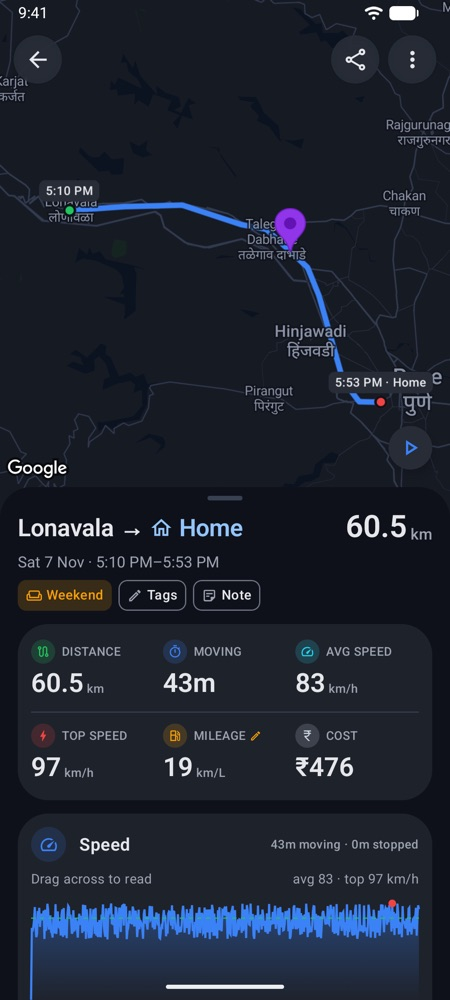
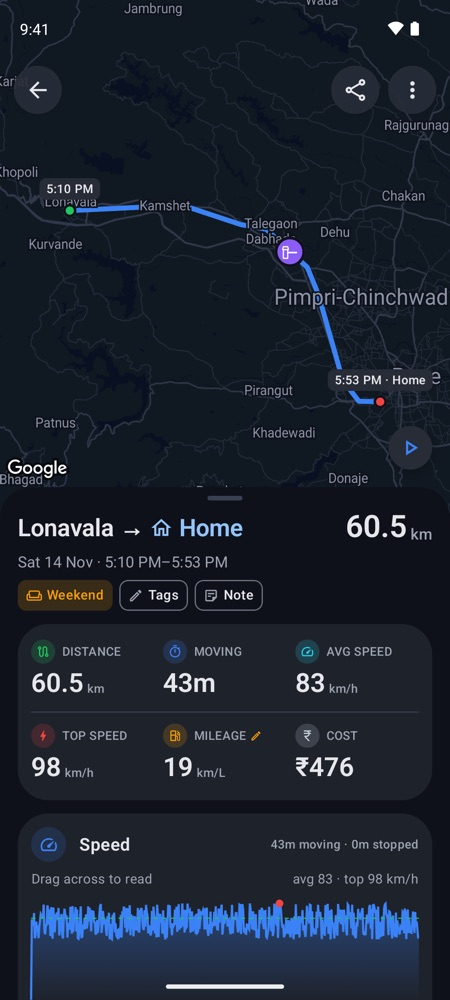
fix(site): fresh Trips, Expenses and trip screenshots; claims match the app
New screens from the demo garage show the current top bars and the trip's toll
pin. The Documents and renewals card becomes Bills and job cards: the app has
no insurance or PUC reminders (llms.txt likewise).

diff --git a/site/index.html b/site/index.html
@@ -23,7 +23,7 @@
 <link rel="icon" href="favicon.svg" type="image/svg+xml">
 <link rel="icon" href="favicon-32.png" sizes="32x32" type="image/png">
 <link rel="apple-touch-icon" href="apple-touch-icon.png">
-<link rel="stylesheet" href="style.css?v=aa1294fc340c">
+<link rel="stylesheet" href="style.css?v=52307f238ef1">
 <link rel="stylesheet" href="trip-story.css?v=a7f72627d9d9">
 <link rel="stylesheet" href="video.css?v=66cc54896eeb">
 <script type="application/ld+json">
@@ -132,7 +132,7 @@
     </ul>
   </div>
   <div class="pair">
-    <figure class="phone"><div class="scr"><picture><source srcset="img/expenses.webp" type="image/webp"><img src="img/expenses.jpg" alt="Expenses tab: ₹2,558 spent in November, 58% less than October, mostly fuel, spend for the last six months, then each payment by day" width="450" height="1000" loading="lazy"></picture></div></figure>
+    <figure class="phone"><div class="scr"><picture><source srcset="img/expenses.webp" type="image/webp"><img src="img/expenses.jpg" alt="Expenses tab: ₹2,750 spent in November, 57% less than October, mostly fuel, spend for the last six months, then each payment by day" width="450" height="1000" loading="lazy"></picture></div></figure>
     <figure class="phone"><div class="scr"><picture><source srcset="img/mileage.webp" type="image/webp"><img src="img/mileage.jpg" alt="Mileage page: 16.5 km/L in November, a line between your city and highway figures, 41% city driving" width="450" height="1000" loading="lazy"></picture></div></figure>
   </div>
 </section>
@@ -149,7 +149,7 @@
     <div class="card wash" style="--tone:var(--blue)"><span class="badge" style="--tone:var(--blue)"><svg class="ico" aria-hidden="true"><use href="#swap-horiz"/></svg></span><h3>Move phones</h3><p>One file, password-protected if you like, carries your vehicles, trips, bills and photos to a new phone.</p></div>
     <div class="card wash" style="--tone:var(--blue)"><span class="badge" style="--tone:var(--blue)"><svg class="ico" aria-hidden="true"><use href="#route"/></svg></span><h3>Saved places</h3><p>Save Home, Work and vehicle stops. Recognise familiar journeys and see visit patterns at your saved spots.</p></div>
     <div class="card wash" style="--tone:var(--green)"><span class="badge" style="--tone:var(--green)"><svg class="ico" aria-hidden="true"><use href="#wallet"/></svg></span><h3>Money received</h3><p>Record trip contributions, repayments and reimbursements. See what you spent and what came back, together.</p></div>
-    <div class="card wash" style="--tone:var(--amber)"><span class="badge" style="--tone:var(--amber)"><svg class="ico" aria-hidden="true"><use href="#calendar-month"/></svg></span><h3>Documents and renewals</h3><p>Keep garage bills, photos and PDFs on your phone. Set reminders for insurance, PUC and other vehicle renewals.</p></div>
+    <div class="card wash" style="--tone:var(--amber)"><span class="badge" style="--tone:var(--amber)"><svg class="ico" aria-hidden="true"><use href="#story-receipt-long"/></svg></span><h3>Bills and job cards</h3><p>Keep garage bills, job cards, photos and PDFs with each service, on your phone. Scan a job card with the camera.</p></div>
   </div>
 </section>
 
@@ -159,7 +159,7 @@
   <div class="strip-wrap">
     <div class="arrows" hidden><button type="button" data-dir="-1" aria-label="Previous screenshots">‹</button><button type="button" data-dir="1" aria-label="Next screenshots">›</button></div>
     <ul class="strip">
-      <li><figure class="phone"><div class="scr"><picture><source srcset="img/home.webp" type="image/webp"><img src="img/home.jpg" alt="Home: km this week, monthly spend, mileage, FASTag balance and the next service" width="450" height="1000" loading="lazy"></picture></div><figcaption>Home</figcaption></figure></li><li><figure class="phone"><div class="scr"><picture><source srcset="img/trips.webp" type="image/webp"><img src="img/trips.jpg" alt="Trips tab: 27.4 km this week across 11 drives, distance per day, then the list of drives" width="450" height="1000" loading="lazy"></picture></div><figcaption>Trips</figcaption></figure></li><li><figure class="phone"><div class="scr"><picture><source srcset="img/trip.webp" type="image/webp"><img src="img/trip.jpg" alt="Trip details: route from Lonavala to Home on the map, 60.5 km, ₹476" width="450" height="1000" loading="lazy"></picture></div><figcaption>Trip details</figcaption></figure></li><li><figure class="phone"><div class="scr"><picture><source srcset="img/expenses.webp" type="image/webp"><img src="img/expenses.jpg" alt="Expenses tab: ₹2,558 spent in November, split into fuel, parking and tolls, with six months of spend" width="450" height="1000" loading="lazy"></picture></div><figcaption>Expenses</figcaption></figure></li><li><figure class="phone"><div class="scr"><picture><source srcset="img/fastag.webp" type="image/webp"><img src="img/fastag.jpg" alt="FASTag page: ₹716 balance, tolls and parking for the last six months" width="450" height="1000" loading="lazy"></picture></div><figcaption>FASTag</figcaption></figure></li><li><figure class="phone"><div class="scr"><picture><source srcset="img/garage.webp" type="image/webp"><img src="img/garage.jpg" alt="Garage: next service due in 12 days, ₹5,450 spent this year, and a service, an AC top-up and a wheel alignment in the history" width="450" height="1000" loading="lazy"></picture></div><figcaption>Garage</figcaption></figure></li><li><figure class="phone"><div class="scr"><picture><source srcset="img/mileage.webp" type="image/webp"><img src="img/mileage.jpg" alt="Mileage page: km/L over six months between your city and highway figures" width="450" height="1000" loading="lazy"></picture></div><figcaption>Mileage</figcaption></figure></li><li><figure class="phone"><div class="scr"><picture><source srcset="img/to-review.webp" type="image/webp"><img src="img/to-review.jpg" alt="To review: a ₹1,500 fuel payment waiting, with Log as fuel" width="450" height="1000" loading="lazy"></picture></div><figcaption>Payments to review</figcaption></figure></li><li><figure class="phone"><div class="scr"><picture><source srcset="img/settings.webp" type="image/webp"><img src="img/settings.jpg" alt="Settings: a car and a scooter, lifetime plan, automatic trips, places, mileage and payment notifications on" width="450" height="1000" loading="lazy"></picture></div><figcaption>Settings</figcaption></figure></li>
+      <li><figure class="phone"><div class="scr"><picture><source srcset="img/home.webp" type="image/webp"><img src="img/home.jpg" alt="Home: km this week, monthly spend, mileage, FASTag balance and the next service" width="450" height="1000" loading="lazy"></picture></div><figcaption>Home</figcaption></figure></li><li><figure class="phone"><div class="scr"><picture><source srcset="img/trips.webp" type="image/webp"><img src="img/trips.jpg" alt="Trips tab: 34.6 km in the week of 16–22 November across 13 drives, distance per day, then the list of drives" width="450" height="1000" loading="lazy"></picture></div><figcaption>Trips</figcaption></figure></li><li><figure class="phone"><div class="scr"><picture><source srcset="img/trip.webp" type="image/webp"><img src="img/trip.jpg" alt="Trip details: route from Lonavala to Home on the map, 60.5 km, ₹476" width="450" height="1000" loading="lazy"></picture></div><figcaption>Trip details</figcaption></figure></li><li><figure class="phone"><div class="scr"><picture><source srcset="img/expenses.webp" type="image/webp"><img src="img/expenses.jpg" alt="Expenses tab: ₹2,750 spent in November, split into fuel, parking and tolls, with six months of spend" width="450" height="1000" loading="lazy"></picture></div><figcaption>Expenses</figcaption></figure></li><li><figure class="phone"><div class="scr"><picture><source srcset="img/fastag.webp" type="image/webp"><img src="img/fastag.jpg" alt="FASTag page: ₹716 balance, tolls and parking for the last six months" width="450" height="1000" loading="lazy"></picture></div><figcaption>FASTag</figcaption></figure></li><li><figure class="phone"><div class="scr"><picture><source srcset="img/garage.webp" type="image/webp"><img src="img/garage.jpg" alt="Garage: next service due in 12 days, ₹5,450 spent this year, and a service, an AC top-up and a wheel alignment in the history" width="450" height="1000" loading="lazy"></picture></div><figcaption>Garage</figcaption></figure></li><li><figure class="phone"><div class="scr"><picture><source srcset="img/mileage.webp" type="image/webp"><img src="img/mileage.jpg" alt="Mileage page: km/L over six months between your city and highway figures" width="450" height="1000" loading="lazy"></picture></div><figcaption>Mileage</figcaption></figure></li><li><figure class="phone"><div class="scr"><picture><source srcset="img/to-review.webp" type="image/webp"><img src="img/to-review.jpg" alt="To review: a ₹1,500 fuel payment waiting, with Log as fuel" width="450" height="1000" loading="lazy"></picture></div><figcaption>Payments to review</figcaption></figure></li><li><figure class="phone"><div class="scr"><picture><source srcset="img/settings.webp" type="image/webp"><img src="img/settings.jpg" alt="Settings: a car and a scooter, lifetime plan, automatic trips, places, mileage and payment notifications on" width="450" height="1000" loading="lazy"></picture></div><figcaption>Settings</figcaption></figure></li>
     </ul>
   </div>
 </section>
